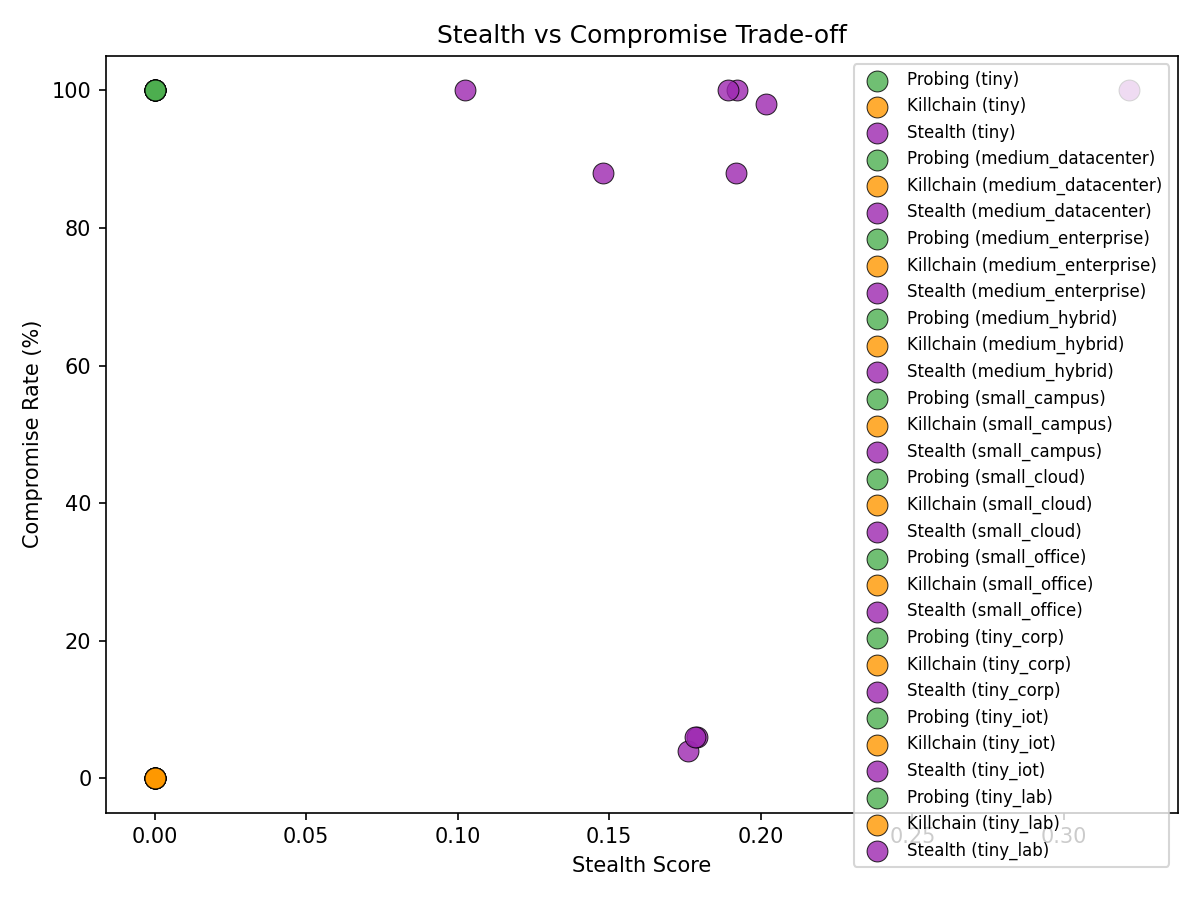
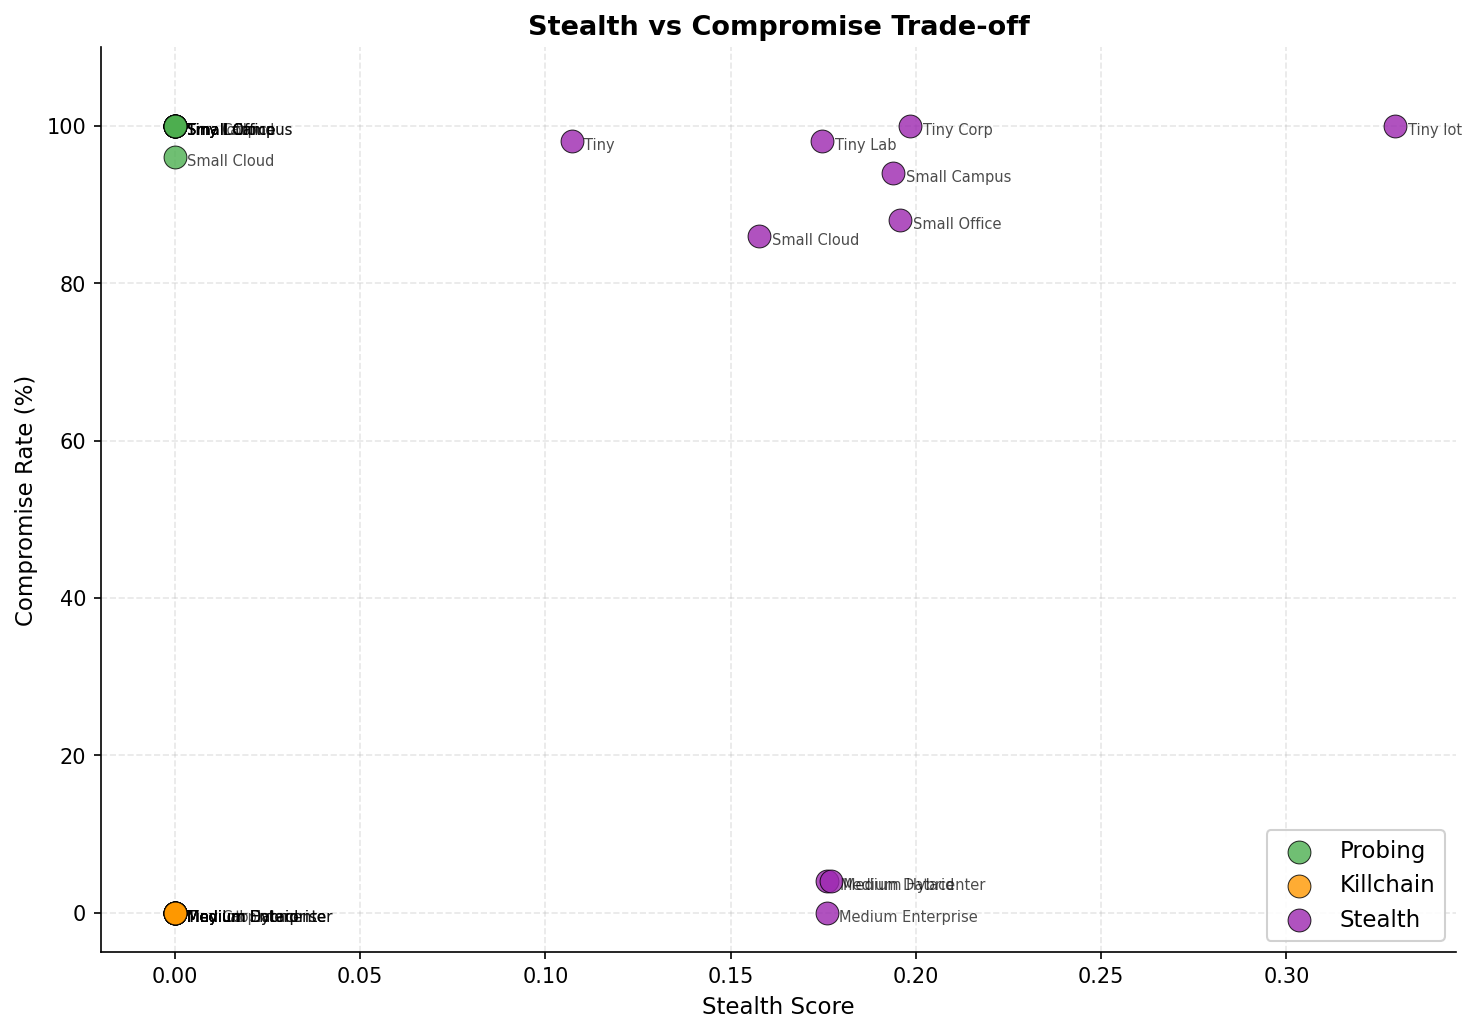
fix: improve chart readability and visual quality
- Sort configs by complexity tier (tiny → small → medium)
- Use pretty labels (underscores → title case)
- Rotate x-axis labels to prevent overlap
- Add value labels on bar charts
- Fix stealth tradeoff: per-agent legend instead of 30-entry mess
- Add config name annotations on scatter points
- Add grid lines, clean spine styling, bold titles
- Use bbox_inches="tight" to prevent clipping

diff --git a/cybersim/benchmarks/plots.py b/cybersim/benchmarks/plots.py
@@ -18,9 +18,31 @@ AGENT_COLORS = {
     "stealth": "#9C27B0",
 }
 
+# Logical ordering: tiny → small → medium
+_SCALE_ORDER = {"tiny": 0, "small": 1, "medium": 2}
+
 
 def _get_color(agent_name: str) -> str:
     return AGENT_COLORS.get(agent_name, "#607D8B")
+
+
+def _pretty_name(config_name: str) -> str:
+    """Convert 'tiny_corp' to 'Tiny Corp'."""
+    return config_name.replace("_", " ").title()
+
+
+def _config_sort_key(name: str) -> tuple[int, str]:
+    """Sort configs by scale tier then alphabetically."""
+    for prefix, order in _SCALE_ORDER.items():
+        if name.startswith(prefix):
+            return (order, name)
+    return (99, name)
+
+
+def _sorted_configs(metrics: list[AgentMetrics]) -> list[str]:
+    """Get config names sorted by complexity tier."""
+    configs = sorted({m.config_name for m in metrics}, key=_config_sort_key)
+    return configs
 
 
 def _group_by_config(metrics: list[AgentMetrics]) -> dict[str, list[AgentMetrics]]:
@@ -37,35 +59,53 @@ def _group_by_agent(metrics: list[AgentMetrics]) -> dict[str, list[AgentMetrics]
     return grouped
 
 
+def _apply_style(ax: plt.Axes) -> None:
+    """Apply consistent clean styling."""
+    ax.spines["top"].set_visible(False)
+    ax.spines["right"].set_visible(False)
+    ax.tick_params(labelsize=10)
+    ax.xaxis.label.set_size(11)
+    ax.yaxis.label.set_size(11)
+    ax.title.set_size(13)
+    ax.title.set_weight("bold")
+
+
 def plot_compromise_rates(metrics: list[AgentMetrics], output_dir: Path) -> None:
+    """Grouped bar chart: compromise rate per agent x config."""
     by_config = _group_by_config(metrics)
-    configs = list(by_config.keys())
+    configs = _sorted_configs(metrics)
     agents = sorted({m.agent_name for m in metrics})
 
     x = np.arange(len(configs))
     width = 0.8 / max(len(agents), 1)
 
-    fig, ax = plt.subplots(figsize=(10, 6))
+    fig, ax = plt.subplots(figsize=(12, 6))
     for i, agent in enumerate(agents):
         rates = []
         for config in configs:
             match = [m for m in by_config[config] if m.agent_name == agent]
             rates.append(match[0].compromise_rate * 100 if match else 0)
-        ax.bar(x + i * width, rates, width, label=agent.title(), color=_get_color(agent))
+        ax.bar(
+            x + i * width, rates, width,
+            label=agent.title(), color=_get_color(agent),
+            edgecolor="white", linewidth=0.5,
+        )
 
     ax.set_xlabel("Configuration")
     ax.set_ylabel("Compromise Rate (%)")
     ax.set_title("Compromise Rate by Agent and Configuration")
     ax.set_xticks(x + width * (len(agents) - 1) / 2)
-    ax.set_xticklabels(configs)
-    ax.legend()
-    ax.set_ylim(0, 105)
+    ax.set_xticklabels([_pretty_name(c) for c in configs], rotation=30, ha="right")
+    ax.legend(framealpha=0.9, fontsize=10)
+    ax.set_ylim(0, 110)
+    _apply_style(ax)
     fig.tight_layout()
-    fig.savefig(output_dir / "compromise_rates.png", dpi=150)
+    fig.savefig(output_dir / "compromise_rates.png", dpi=150, bbox_inches="tight")
     plt.close(fig)
 
 
 def plot_steps_comparison(metrics: list[AgentMetrics], output_dir: Path) -> None:
+    """Bar chart with error bars: avg steps per agent."""
     by_agent = _group_by_agent(metrics)
     agents = sorted(by_agent.keys())
 
@@ -75,18 +115,27 @@ def plot_steps_comparison(metrics: list[AgentMetrics], output_dir: Path) -> None
     std_steps = [np.mean([m.std_steps for m in by_agent[a]]) for a in agents]
     colors = [_get_color(a) for a in agents]
 
-    ax.bar(x, avg_steps, yerr=std_steps, capsize=5, color=colors)
+    bars = ax.bar(x, avg_steps, yerr=std_steps, capsize=6, color=colors, edgecolor="white")
+    # Add value labels on bars
+    for bar, val in zip(bars, avg_steps):
+        ax.text(
+            bar.get_x() + bar.get_width() / 2, bar.get_height() + 5,
+            f"{val:.0f}", ha="center", va="bottom", fontsize=10, fontweight="bold",
+        )
+
     ax.set_xlabel("Agent")
     ax.set_ylabel("Average Steps to Compromise")
     ax.set_title("Steps Comparison Across Agents")
     ax.set_xticks(x)
-    ax.set_xticklabels([a.title() for a in agents])
+    ax.set_xticklabels([a.title() for a in agents], fontsize=11)
+    _apply_style(ax)
     fig.tight_layout()
-    fig.savefig(output_dir / "steps_comparison.png", dpi=150)
+    fig.savefig(output_dir / "steps_comparison.png", dpi=150, bbox_inches="tight")
     plt.close(fig)
 
 
 def plot_time_comparison(metrics: list[AgentMetrics], output_dir: Path) -> None:
+    """Bar chart: average reward per agent."""
     by_agent = _group_by_agent(metrics)
     agents = sorted(by_agent.keys())
 
@@ -95,39 +144,57 @@ def plot_time_comparison(metrics: list[AgentMetrics], output_dir: Path) -> None:
     avg_rewards = [np.mean([m.avg_reward for m in by_agent[a]]) for a in agents]
     colors = [_get_color(a) for a in agents]
 
-    ax.bar(x, avg_rewards, color=colors)
+    bars = ax.bar(x, avg_rewards, color=colors, edgecolor="white")
+    for bar, val in zip(bars, avg_rewards):
+        y_pos = bar.get_height() + 2 if val >= 0 else bar.get_height() - 8
+        ax.text(
+            bar.get_x() + bar.get_width() / 2, y_pos,
+            f"{val:.1f}", ha="center", va="bottom", fontsize=10, fontweight="bold",
+        )
+
+    ax.axhline(y=0, color="grey", linewidth=0.8, linestyle="-")
     ax.set_xlabel("Agent")
     ax.set_ylabel("Average Reward")
     ax.set_title("Reward Comparison Across Agents")
     ax.set_xticks(x)
-    ax.set_xticklabels([a.title() for a in agents])
+    ax.set_xticklabels([a.title() for a in agents], fontsize=11)
+    _apply_style(ax)
     fig.tight_layout()
-    fig.savefig(output_dir / "time_comparison.png", dpi=150)
+    fig.savefig(output_dir / "time_comparison.png", dpi=150, bbox_inches="tight")
     plt.close(fig)
 
 
 def plot_scaling(metrics: list[AgentMetrics], output_dir: Path) -> None:
+    """Line chart: performance vs config complexity (ordered by scale tier)."""
     by_agent = _group_by_agent(metrics)
     agents = sorted(by_agent.keys())
-    configs = sorted({m.config_name for m in metrics})
+    configs = _sorted_configs(metrics)
+    pretty_configs = [_pretty_name(c) for c in configs]
 
-    fig, ax = plt.subplots(figsize=(10, 6))
+    fig, ax = plt.subplots(figsize=(12, 6))
     for agent in agents:
         agent_metrics = by_agent[agent]
         config_steps = {m.config_name: m.avg_steps for m in agent_metrics}
         steps = [config_steps.get(c, 0) for c in configs]
-        ax.plot(configs, steps, marker="o", label=agent.title(), color=_get_color(agent))
+        ax.plot(
+            pretty_configs, steps,
+            marker="o", label=agent.title(), color=_get_color(agent),
+            linewidth=2, markersize=7,
+        )
 
     ax.set_xlabel("Configuration (increasing complexity)")
     ax.set_ylabel("Average Steps")
     ax.set_title("Scaling: Steps vs Network Complexity")
-    ax.legend()
+    ax.legend(framealpha=0.9, fontsize=10)
+    plt.xticks(rotation=30, ha="right")
+    _apply_style(ax)
     fig.tight_layout()
-    fig.savefig(output_dir / "scaling.png", dpi=150)
+    fig.savefig(output_dir / "scaling.png", dpi=150, bbox_inches="tight")
     plt.close(fig)
 
 
 def plot_agent_radar(metrics: list[AgentMetrics], output_dir: Path) -> None:
+    """Radar chart: multi-metric comparison across agents."""
     by_agent = _group_by_agent(metrics)
     agents = sorted(by_agent.keys())
 
@@ -143,48 +210,71 @@ def plot_agent_radar(metrics: list[AgentMetrics], output_dir: Path) -> None:
         avg_steps = np.mean([m.avg_steps for m in agent_data])
         speed = 1.0 / max(avg_steps, 1) * 100
         reward = max(np.mean([m.avg_reward for m in agent_data]), 0) / 10
-        consistency = 1.0 - min(np.mean([m.std_steps for m in agent_data]) / 50, 1.0)
+        consistency = 1.0 - min(
+            np.mean([m.std_steps for m in agent_data]) / 50, 1.0
+        )
 
         values = [cr, min(speed, 1.0), min(reward, 1.0), consistency]
         values += values[:1]
 
-        ax.plot(angles, values, label=agent.title(), color=_get_color(agent))
-        ax.fill(angles, values, alpha=0.1, color=_get_color(agent))
+        ax.plot(
+            angles, values,
+            label=agent.title(), color=_get_color(agent), linewidth=2,
+        )
+        ax.fill(angles, values, alpha=0.15, color=_get_color(agent))
 
     ax.set_xticks(angles[:-1])
-    ax.set_xticklabels(categories)
+    ax.set_xticklabels(categories, fontsize=11)
     ax.set_ylim(0, 1.1)
-    ax.set_title("Agent Comparison Radar", y=1.08)
-    ax.legend(loc="upper right", bbox_to_anchor=(1.3, 1.1))
+    ax.set_title("Agent Comparison Radar", y=1.08, fontsize=13, fontweight="bold")
+    ax.legend(loc="upper right", bbox_to_anchor=(1.25, 1.1), fontsize=10)
     fig.tight_layout()
-    fig.savefig(output_dir / "agent_radar.png", dpi=150)
+    fig.savefig(output_dir / "agent_radar.png", dpi=150, bbox_inches="tight")
     plt.close(fig)
 
 
 def plot_stealth_tradeoff(metrics: list[AgentMetrics], output_dir: Path) -> None:
-    fig, ax = plt.subplots(figsize=(8, 6))
+    """Scatter: stealth score vs compromise rate, grouped by agent (not per-config)."""
+    fig, ax = plt.subplots(figsize=(10, 7))
 
+    # Group by agent for clean legend
+    plotted_agents: set[str] = set()
     for m in metrics:
         stealth = m.avg_stealth_score if m.avg_stealth_score is not None else 0.0
+        label = m.agent_name.title() if m.agent_name not in plotted_agents else None
+        plotted_agents.add(m.agent_name)
+
         ax.scatter(
             stealth,
             m.compromise_rate * 100,
-            s=100,
+            s=120,
             color=_get_color(m.agent_name),
-            label=f"{m.agent_name.title()} ({m.config_name})",
+            label=label,
             alpha=0.8,
             edgecolors="black",
             linewidth=0.5,
+            zorder=3,
+        )
+        # Annotate with config name (small text)
+        ax.annotate(
+            _pretty_name(m.config_name),
+            (stealth, m.compromise_rate * 100),
+            textcoords="offset points",
+            xytext=(6, -4),
+            fontsize=7,
+            alpha=0.7,
         )
 
     ax.set_xlabel("Stealth Score")
     ax.set_ylabel("Compromise Rate (%)")
     ax.set_title("Stealth vs Compromise Trade-off")
-    handles, labels = ax.get_legend_handles_labels()
-    unique = dict(zip(labels, handles))
-    ax.legend(unique.values(), unique.keys(), fontsize=8)
+    ax.set_xlim(-0.02, None)
+    ax.set_ylim(-5, 110)
+    ax.legend(fontsize=11, framealpha=0.9)
+    _apply_style(ax)
+    ax.grid(True, alpha=0.3, linestyle="--")
     fig.tight_layout()
-    fig.savefig(output_dir / "stealth_tradeoff.png", dpi=150)
+    fig.savefig(output_dir / "stealth_tradeoff.png", dpi=150, bbox_inches="tight")
     plt.close(fig)
 
 
